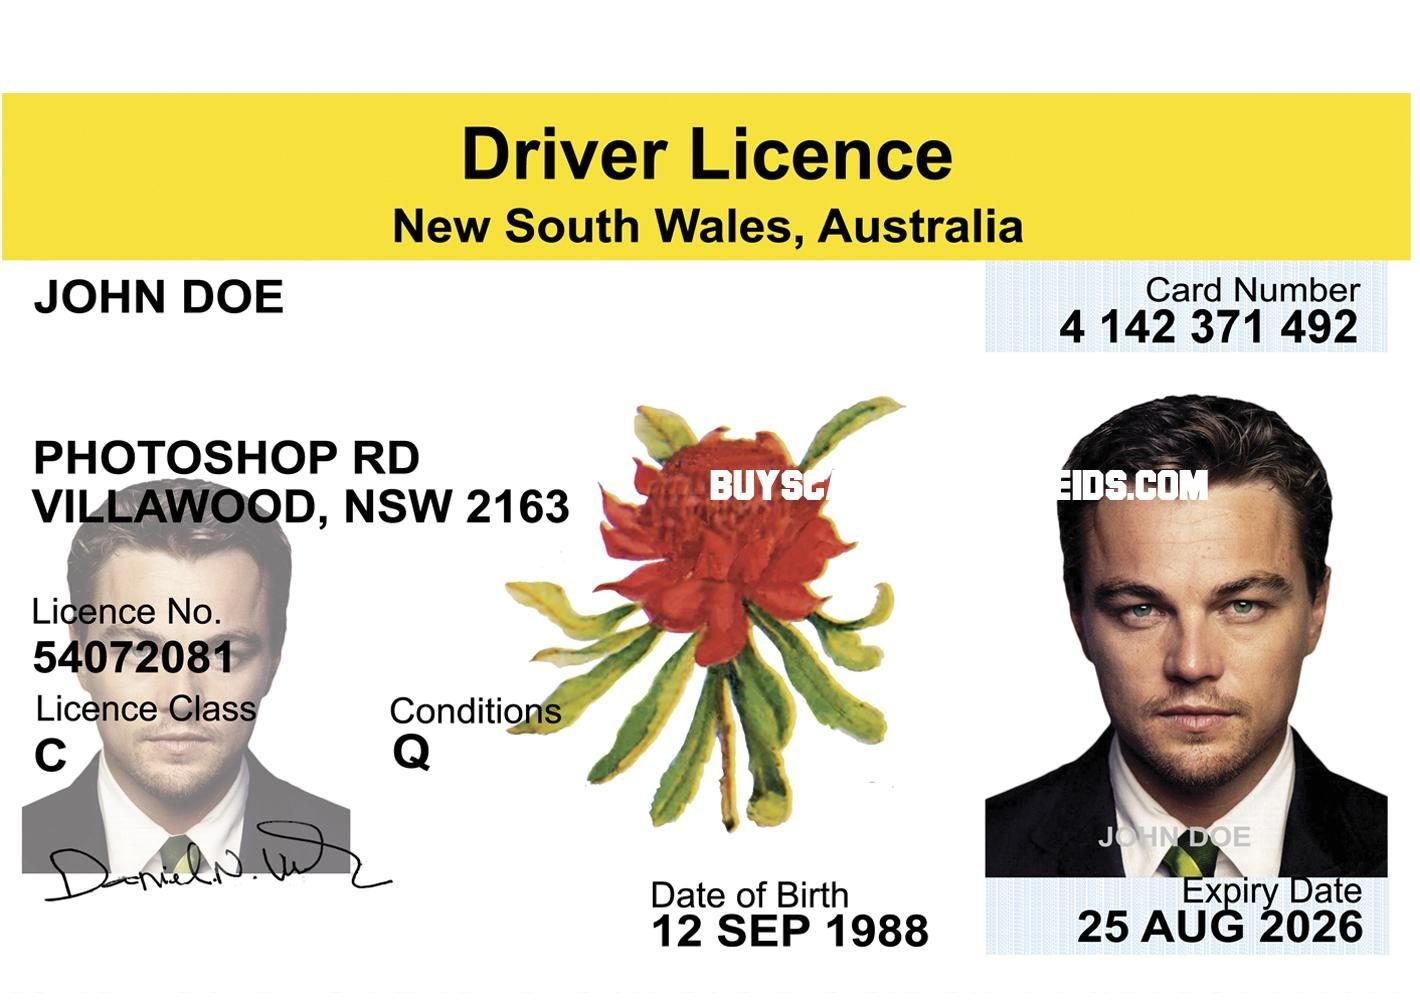
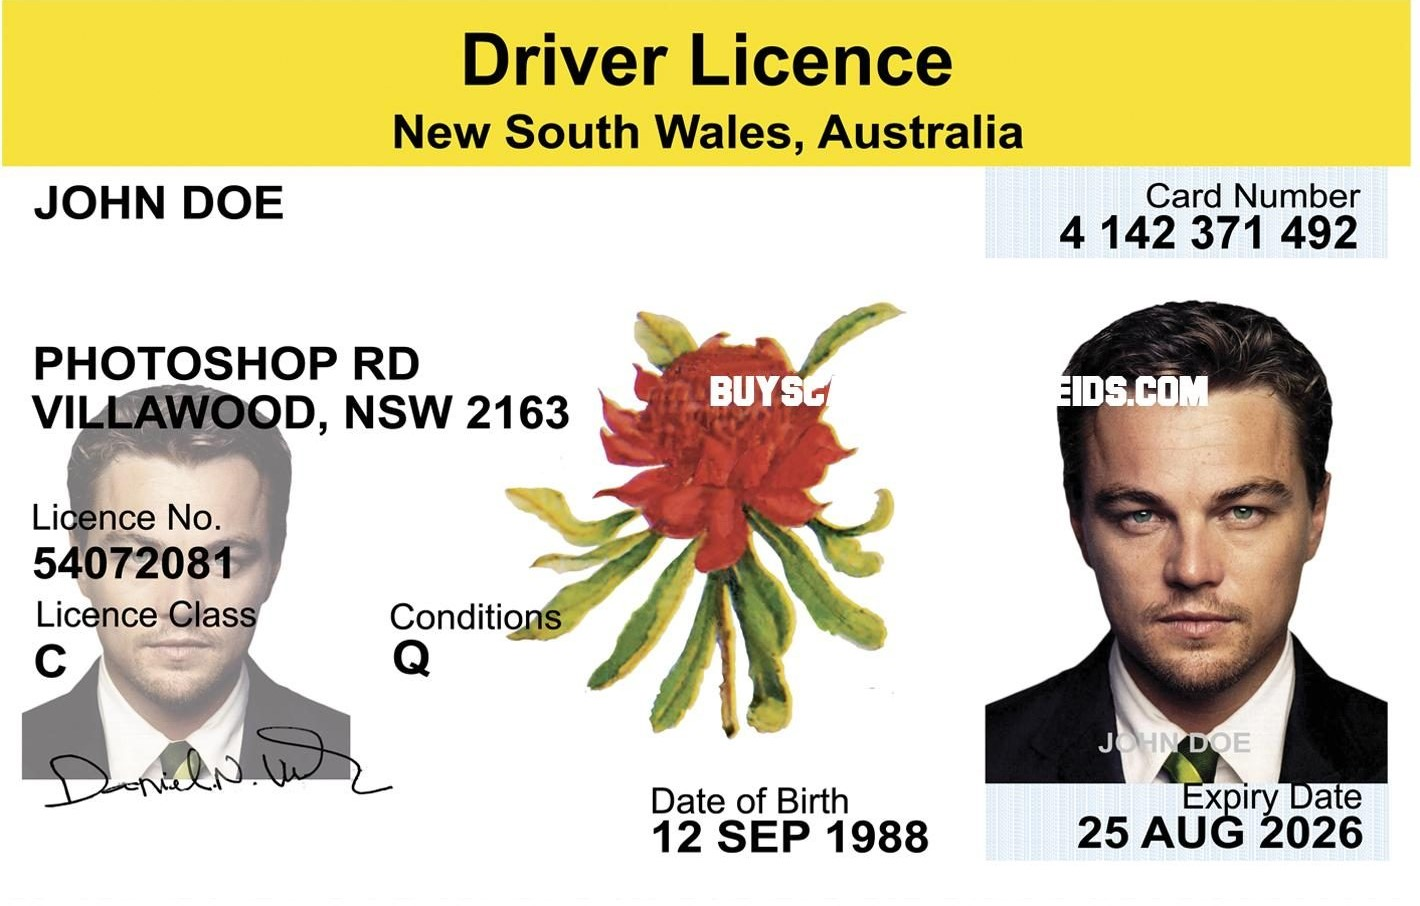
update on NSW coordinates

diff --git a/src/ocr/test_ocr.py b/src/ocr/test_ocr.py
@@ -10,7 +10,7 @@ test_data = [
             "name": "PATRICIA MARIE BECKHAM",
             "address": "66 ST GEORGES TERRACE PERTH WA 6000",
             "expiry_date": "30 Jun 2019",
-            "date_of_birth": "1 Jul 1983",
+            "date_of_birth": "01 Jul 1983",
         },
     },
     {
@@ -57,7 +57,7 @@ test_data = [
         "image_path": "./test_images/ACT-driver-license.png",
         "location": "AUSTRALIA_ACT",
         "expected_information": {
-            "name": "JOAN CITIZEN",
+            "name": "Joan CITIZEN",
             "address": "13 CHALLIS ST DICKSON ACT 2602",
             "expiry_date": "10JUN2011",
             "date_of_birth": "27MAY1984",
@@ -70,7 +70,7 @@ test_data = [
             "name": "JENNY CITIZEN",
             "address": "",
             "expiry_date": "29.08.15",
-            "date_of_birth": "28 SEPT 1970",
+            "date_of_birth": "28 Sept 1970",
         },
     },
     {

diff --git a/src/ocr/ocr.py b/src/ocr/ocr.py
@@ -26,10 +26,10 @@ class ImageConstantROI:
             "date_of_birth": [(217, 230, 150, 30)],
         }
         AUSTRALIA_NSW = {
-            "name": [(12, 110, 250, 25)],
-            "address": [(12, 175, 250, 50)],
-            "expiry_date": [(465, 374, 150, 20)],
-            "date_of_birth": [(280, 374, 150, 20)],
+            "name": [(12, 82, 286, 25)],
+            "address": [(12, 155, 300, 47)],
+            "expiry_date": [(467, 371, 133, 20)],
+            "date_of_birth": [(283, 376, 124, 20)],
         }
         AUSTRALIA_NT = {
             "name": [(195, 168, 300, 25), (195, 145, 300, 25)],
